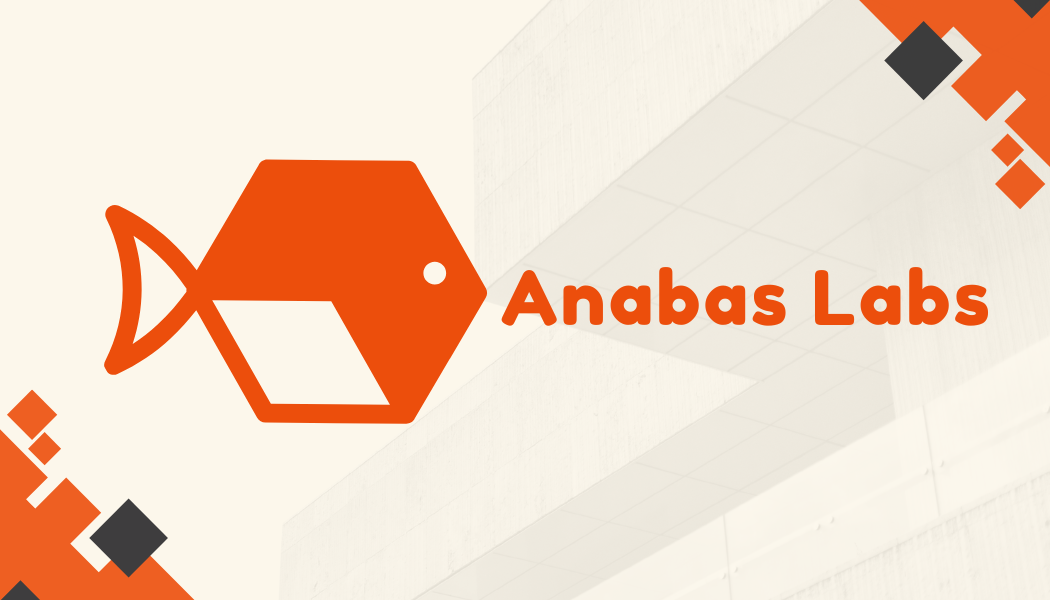
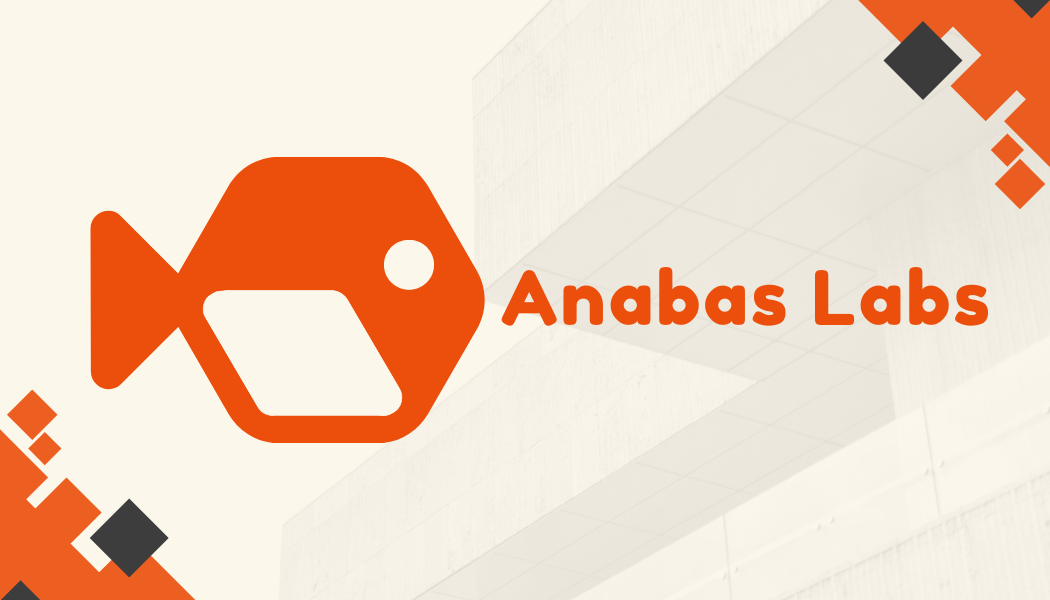
rebrand ✨

diff --git a/README.md b/README.md
@@ -1,9 +1,11 @@
 <h1 align="center">
-  <img src="./public/icon.png" alt="Anabas Labs Logo" width="64">
-    <br>
-  <b>Anabas Labs </b>
+  <img src="./public/icon.png" alt="Anabas Labs" width="64">
+  <br>
+  <b>Website</b>
 </h1>
 
 <h3 align="center">
-  <a href="https://anabaslabs.com"><b><code>anabaslabs.com</code></b></a>
+  <a href="https://anabaslabs.com">
+    <b><code>anabaslabs.com</code></b>
+  </a>
 </h3>
